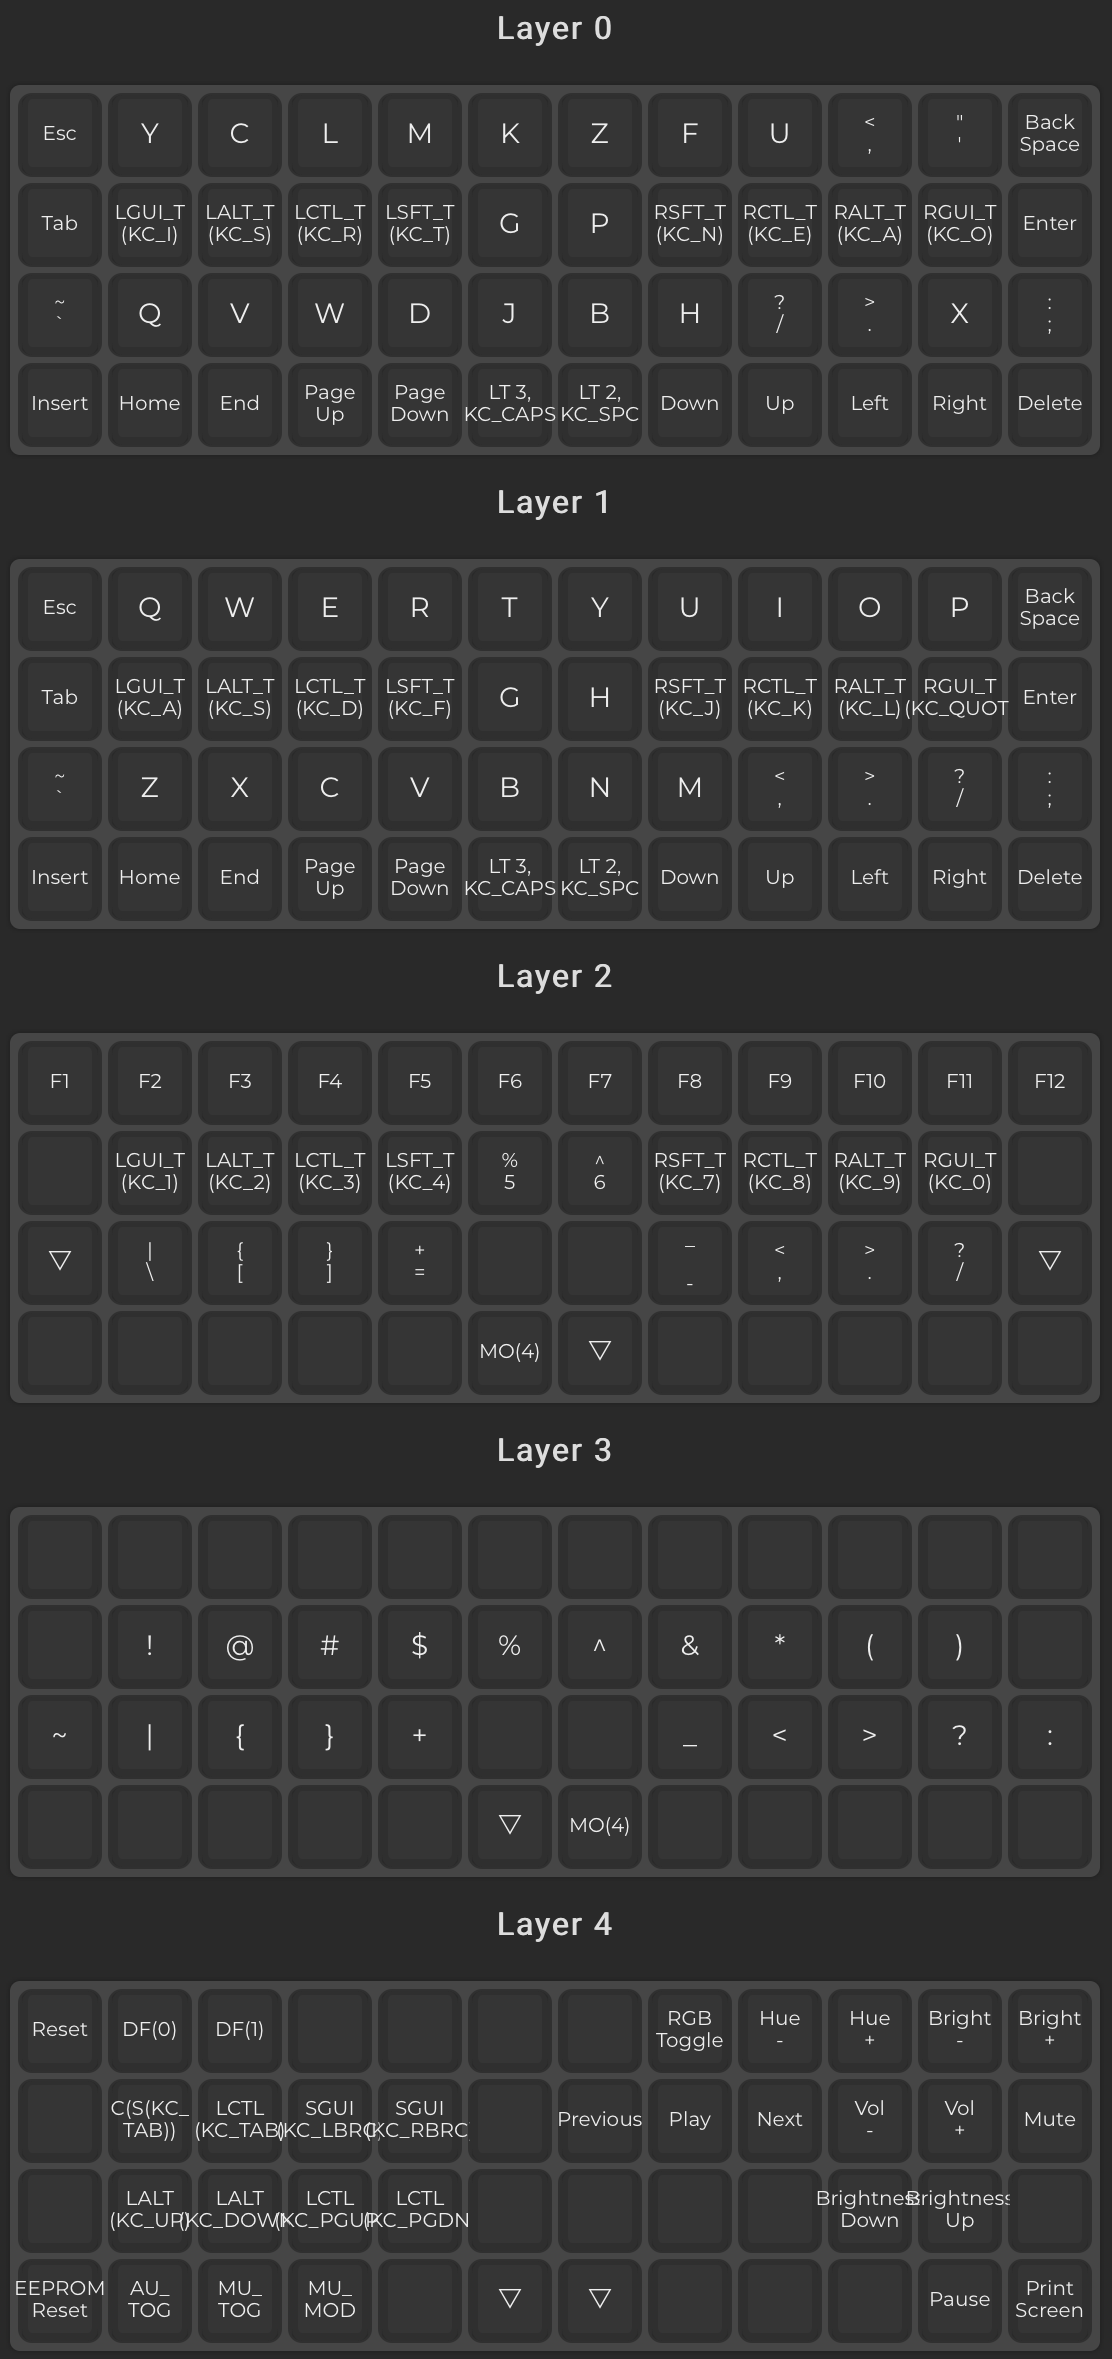
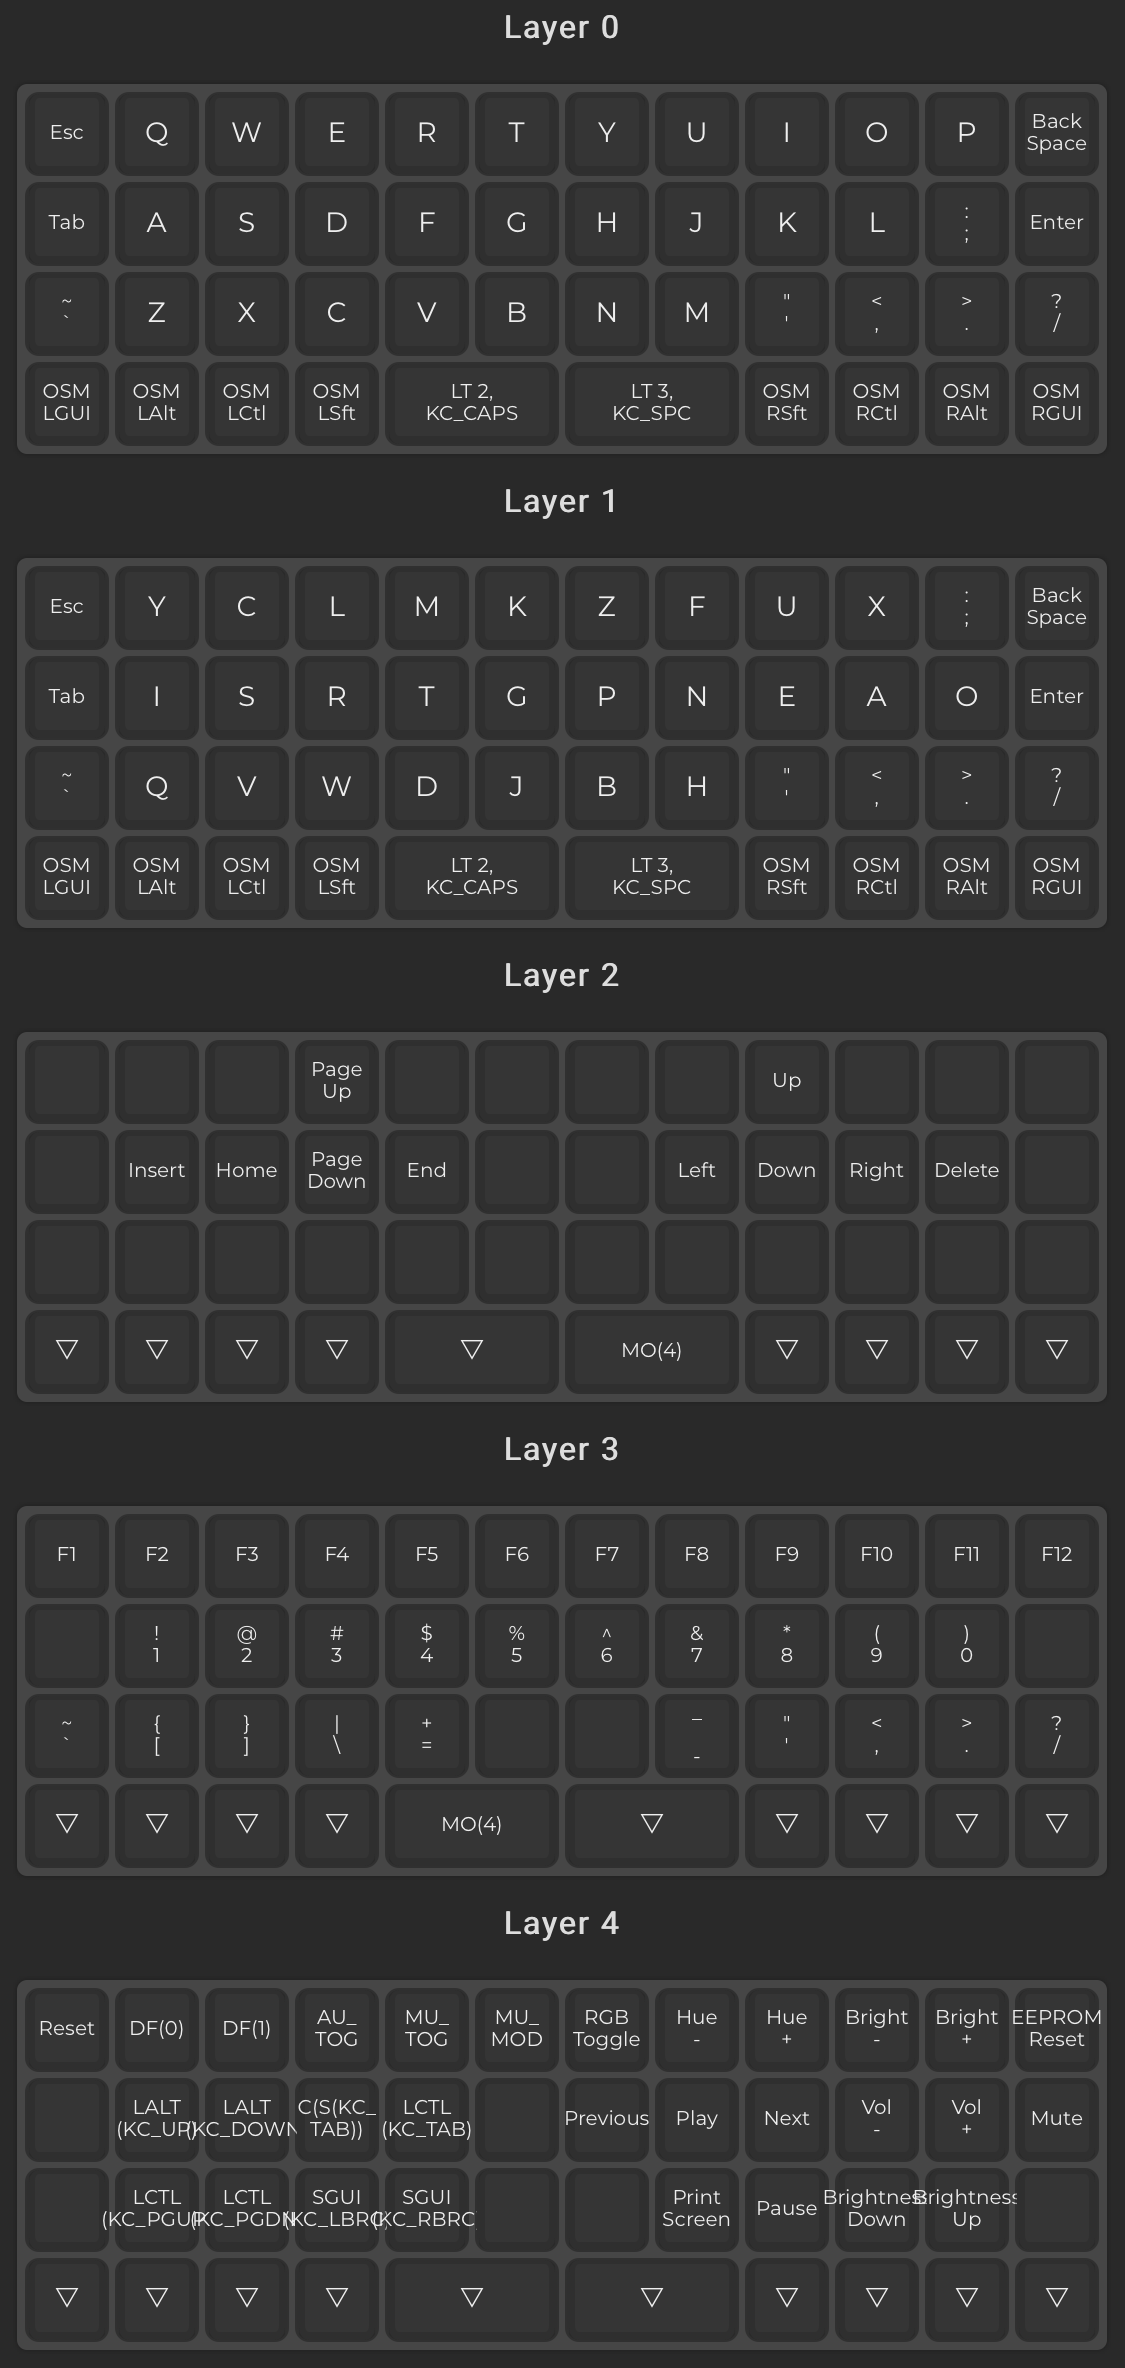
Update with edgemods

diff --git a/keymap.c b/keymap.c
@@ -7,9 +7,9 @@
  */
 
 const uint16_t PROGMEM keymaps[][MATRIX_ROWS][MATRIX_COLS] = {
-	[0] = LAYOUT_ortho_4x12(KC_ESC, KC_Y, KC_C, KC_L, KC_M, KC_K, KC_Z, KC_F, KC_U, KC_COMM, KC_QUOT, KC_BSPC, KC_TAB, LGUI_T(KC_I), LALT_T(KC_S), LCTL_T(KC_R), LSFT_T(KC_T), KC_G, KC_P, RSFT_T(KC_N), RCTL_T(KC_E), RALT_T(KC_A), RGUI_T(KC_O), KC_ENT, KC_GRV, KC_Q, KC_V, KC_W, KC_D, KC_J, KC_B, KC_H, KC_SLSH, KC_DOT, KC_X, KC_SCLN, KC_INS, KC_HOME, KC_END, KC_PGUP, KC_PGDN, LT(3,KC_CAPS), LT(2,KC_SPC), KC_DOWN, KC_UP, KC_LEFT, KC_RGHT, KC_DEL),
-	[1] = LAYOUT_ortho_4x12(KC_ESC, KC_Q, KC_W, KC_E, KC_R, KC_T, KC_Y, KC_U, KC_I, KC_O, KC_P, KC_BSPC, KC_TAB, LGUI_T(KC_A), LALT_T(KC_S), LCTL_T(KC_D), LSFT_T(KC_F), KC_G, KC_H, RSFT_T(KC_J), RCTL_T(KC_K), RALT_T(KC_L), RGUI_T(KC_QUOT), KC_ENT, KC_GRV, KC_Z, KC_X, KC_C, KC_V, KC_B, KC_N, KC_M, KC_COMM, KC_DOT, KC_SLSH, KC_SCLN, KC_INS, KC_HOME, KC_END, KC_PGUP, KC_PGDN, LT(3,KC_CAPS), LT(2,KC_SPC), KC_DOWN, KC_UP, KC_LEFT, KC_RGHT, KC_DEL),
-	[2] = LAYOUT_ortho_4x12(KC_F1, KC_F2, KC_F3, KC_F4, KC_F5, KC_F6, KC_F7, KC_F8, KC_F9, KC_F10, KC_F11, KC_F12, KC_NO, LGUI_T(KC_1), LALT_T(KC_2), LCTL_T(KC_3), LSFT_T(KC_4), KC_5, KC_6, RSFT_T(KC_7), RCTL_T(KC_8), RALT_T(KC_9), RGUI_T(KC_0), KC_NO, KC_TRNS, KC_BSLS, KC_LBRC, KC_RBRC, KC_EQL, KC_NO, KC_NO, KC_MINS, KC_COMM, KC_DOT, KC_SLSH, KC_TRNS, KC_NO, KC_NO, KC_NO, KC_NO, KC_NO, MO(4), KC_TRNS, KC_NO, KC_NO, KC_NO, KC_NO, KC_NO),
-	[3] = LAYOUT_ortho_4x12(KC_NO, KC_NO, KC_NO, KC_NO, KC_NO, KC_NO, KC_NO, KC_NO, KC_NO, KC_NO, KC_NO, KC_NO, KC_NO, KC_EXLM, KC_AT, KC_HASH, KC_DLR, KC_PERC, KC_CIRC, KC_AMPR, KC_ASTR, KC_LPRN, KC_RPRN, KC_NO, KC_TILD, KC_PIPE, KC_LCBR, KC_RCBR, KC_PLUS, KC_NO, KC_NO, KC_UNDS, KC_LT, KC_GT, KC_QUES, KC_COLN, KC_NO, KC_NO, KC_NO, KC_NO, KC_NO, KC_TRNS, MO(4), KC_NO, KC_NO, KC_NO, KC_NO, KC_NO),
-	[4] = LAYOUT_ortho_4x12(RESET, DF(0), DF(1), KC_NO, KC_NO, KC_NO, KC_NO, RGB_TOG, RGB_HUD, RGB_HUI, RGB_VAD, RGB_VAI, KC_NO, C(S(KC_TAB)), LCTL(KC_TAB), SGUI(KC_LBRC), SGUI(KC_RBRC), KC_NO, KC_MPRV, KC_MPLY, KC_MNXT, KC_VOLD, KC_VOLU, KC_MUTE, KC_NO, LALT(KC_UP), LALT(KC_DOWN), LCTL(KC_PGUP), LCTL(KC_PGDN), KC_NO, KC_NO, KC_NO, KC_NO, KC_BRID, KC_BRIU, KC_NO, EEP_RST, AU_TOG, MU_TOG, MU_MOD, KC_NO, KC_TRNS, KC_TRNS, KC_NO, KC_NO, KC_NO, KC_PAUS, KC_PSCR)
+	[0] = LAYOUT_planck_2x2u(KC_ESC, KC_Q, KC_W, KC_E, KC_R, KC_T, KC_Y, KC_U, KC_I, KC_O, KC_P, KC_BSPC, KC_TAB, KC_A, KC_S, KC_D, KC_F, KC_G, KC_H, KC_J, KC_K, KC_L, KC_SCLN, KC_ENT, KC_GRV, KC_Z, KC_X, KC_C, KC_V, KC_B, KC_N, KC_M, KC_QUOT, KC_COMM, KC_DOT, KC_SLSH, OSM(MOD_LGUI), OSM(MOD_LALT), OSM(MOD_LCTL), OSM(MOD_LSFT), LT(2,KC_CAPS), LT(3,KC_SPC), OSM(MOD_RSFT), OSM(MOD_RCTL), OSM(MOD_RALT), OSM(MOD_RGUI)),
+	[1] = LAYOUT_planck_2x2u(KC_ESC, KC_Y, KC_C, KC_L, KC_M, KC_K, KC_Z, KC_F, KC_U, KC_X, KC_SCLN, KC_BSPC, KC_TAB, KC_I, KC_S, KC_R, KC_T, KC_G, KC_P, KC_N, KC_E, KC_A, KC_O, KC_ENT, KC_GRV, KC_Q, KC_V, KC_W, KC_D, KC_J, KC_B, KC_H, KC_QUOT, KC_COMM, KC_DOT, KC_SLSH, OSM(MOD_LGUI), OSM(MOD_LALT), OSM(MOD_LCTL), OSM(MOD_LSFT), LT(2,KC_CAPS), LT(3,KC_SPC), OSM(MOD_RSFT), OSM(MOD_RCTL), OSM(MOD_RALT), OSM(MOD_RGUI)),
+	[2] = LAYOUT_planck_2x2u(KC_NO, KC_NO, KC_NO, KC_PGUP, KC_NO, KC_NO, KC_NO, KC_NO, KC_UP, KC_NO, KC_NO, KC_NO, KC_NO, KC_INS, KC_HOME, KC_PGDN, KC_END, KC_NO, KC_NO, KC_LEFT, KC_DOWN, KC_RGHT, KC_DEL, KC_NO, KC_NO, KC_NO, KC_NO, KC_NO, KC_NO, KC_NO, KC_NO, KC_NO, KC_NO, KC_NO, KC_NO, KC_NO, KC_TRNS, KC_TRNS, KC_TRNS, KC_TRNS, KC_TRNS, MO(4), KC_TRNS, KC_TRNS, KC_TRNS, KC_TRNS),
+	[3] = LAYOUT_planck_2x2u(KC_F1, KC_F2, KC_F3, KC_F4, KC_F5, KC_F6, KC_F7, KC_F8, KC_F9, KC_F10, KC_F11, KC_F12, KC_NO, KC_1, KC_2, KC_3, KC_4, KC_5, KC_6, KC_7, KC_8, KC_9, KC_0, KC_NO, KC_GRV, KC_LBRC, KC_RBRC, KC_BSLS, KC_EQL, KC_NO, KC_NO, KC_MINS, KC_QUOT, KC_COMM, KC_DOT, KC_SLSH, KC_TRNS, KC_TRNS, KC_TRNS, KC_TRNS, MO(4), KC_TRNS, KC_TRNS, KC_TRNS, KC_TRNS, KC_TRNS),
+	[4] = LAYOUT_planck_2x2u(RESET, DF(0), DF(1), AU_TOG, MU_TOG, MU_MOD, RGB_TOG, RGB_HUD, RGB_HUI, RGB_VAD, RGB_VAI, EEP_RST, KC_NO, LALT(KC_UP), LALT(KC_DOWN), C(S(KC_TAB)), LCTL(KC_TAB), KC_NO, KC_MPRV, KC_MPLY, KC_MNXT, KC_VOLD, KC_VOLU, KC_MUTE, KC_NO, LCTL(KC_PGUP), LCTL(KC_PGDN), SGUI(KC_LBRC), SGUI(KC_RBRC), KC_NO, KC_NO, KC_PSCR, KC_PAUS, KC_BRID, KC_BRIU, KC_NO, KC_TRNS, KC_TRNS, KC_TRNS, KC_TRNS, KC_TRNS, KC_TRNS, KC_TRNS, KC_TRNS, KC_TRNS, KC_TRNS)
 };

diff --git a/config.h b/config.h
@@ -4,3 +4,7 @@
 #define TAPPING_TERM 200
 #define IGNORE_MOD_TAP_INTERRUPT
 #define PERMISSIVE_HOLD
+// #define TAPPING_FORCE_HOLD // Incompatible with oneshot toggle
+
+#define ONESHOT_TAP_TOGGLE 2
+#define ONESHOT_TIMEOUT 2000
